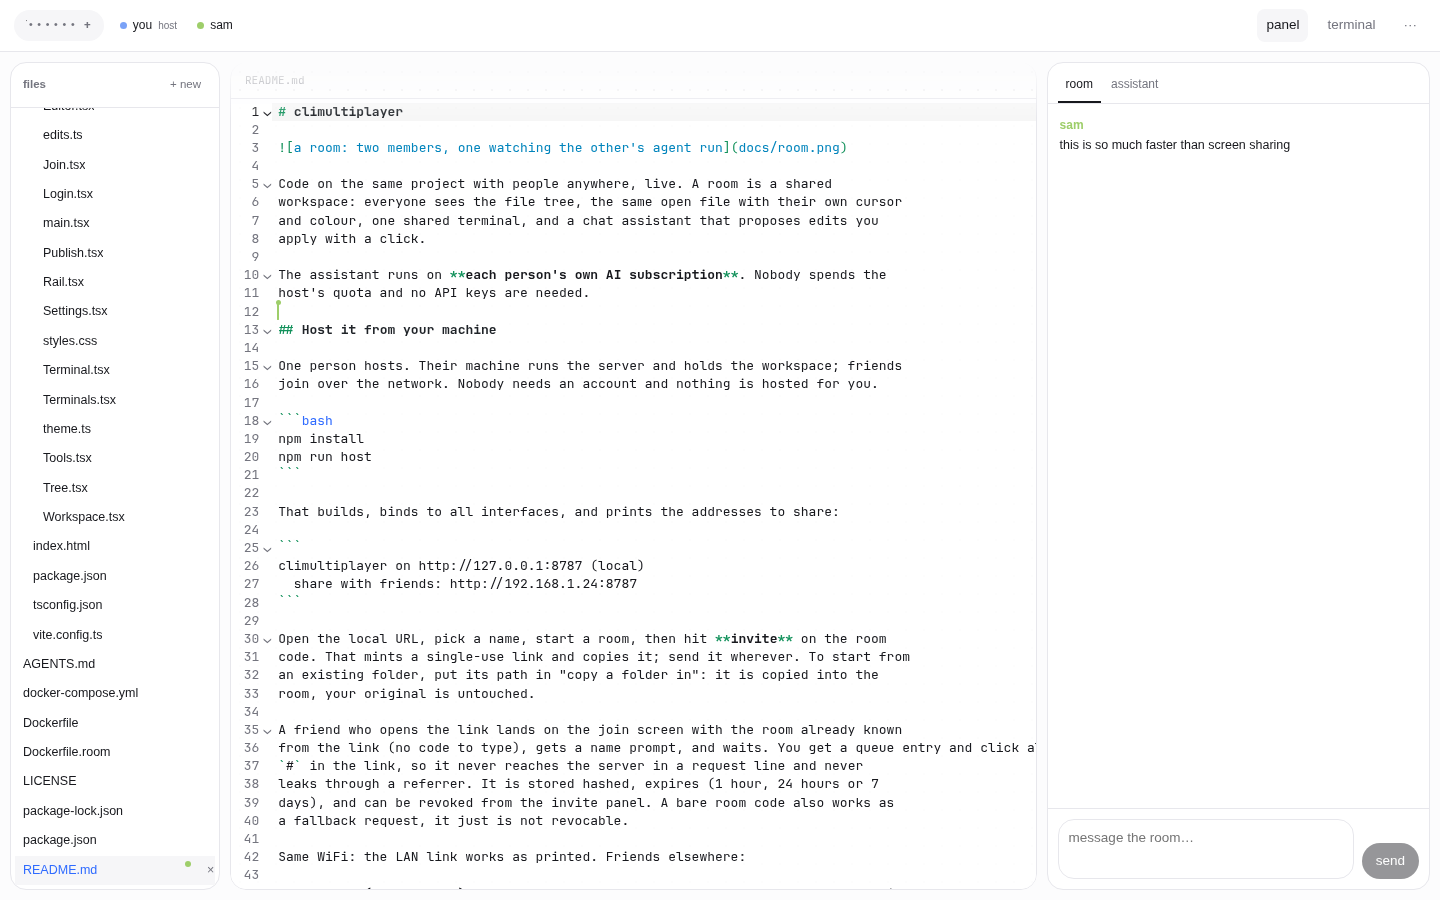
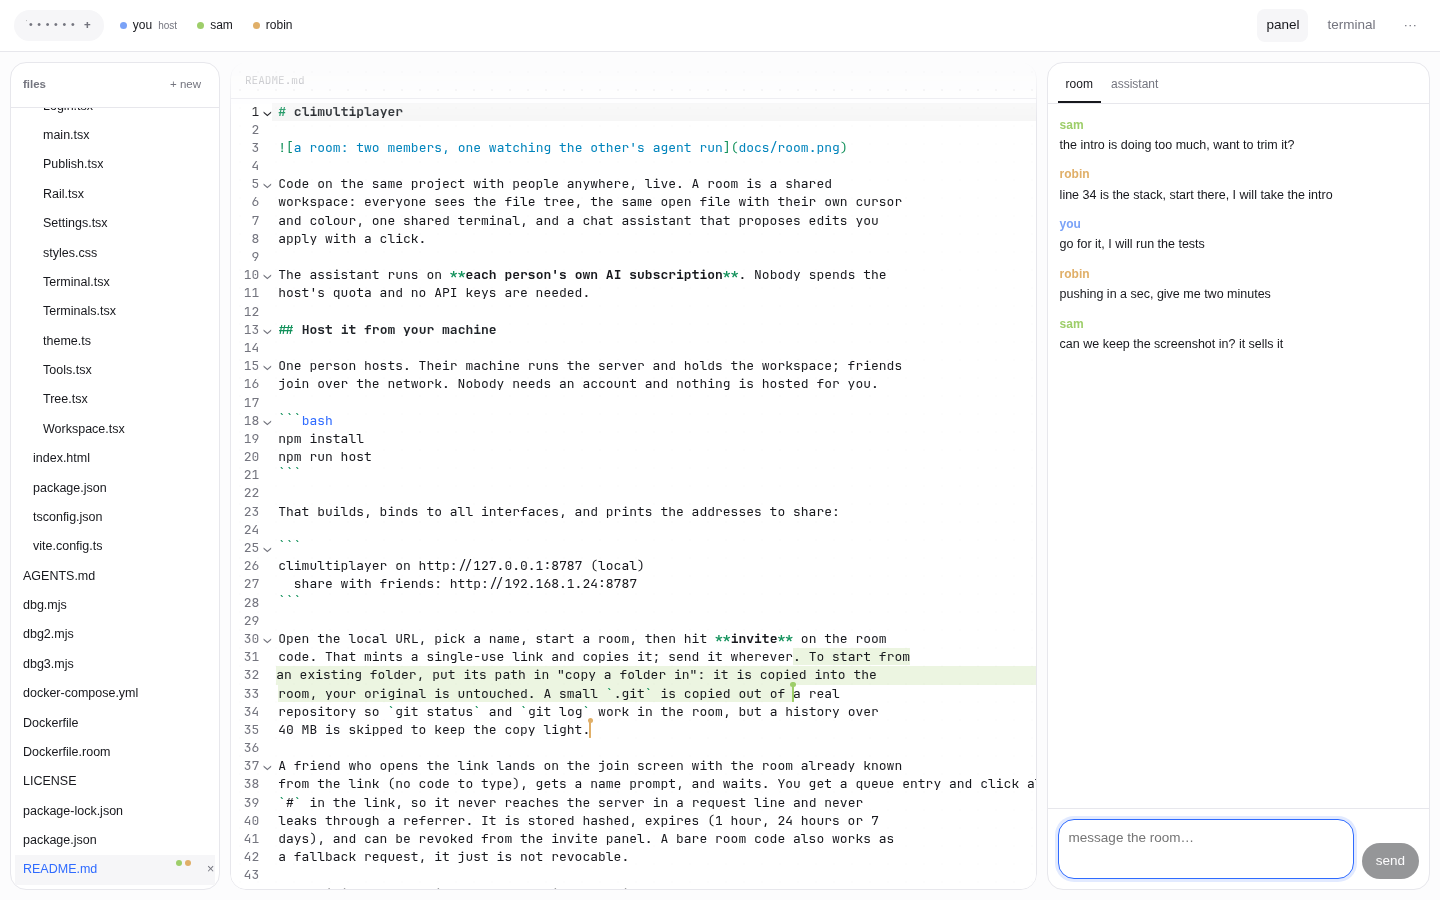
Turn join requests into notification cards, and dress the landing page
Approvals used to be a strip under the header that shoved the layout. They
are now floating cards on the right with the member's colour, the command,
the reasons, and a bar showing the 90 second window, so a request is
impossible to miss and leaves the app alone.

Also adds a pitch row and soft gradient to the landing page, a favicon and
social meta, room codes in the tab title, build tools in the room image so
npm install works, and three people in the screenshots.

diff --git a/web/src/Workspace.tsx b/web/src/Workspace.tsx
@@ -11,8 +11,14 @@ import { Settings, type SettingsTab } from './Settings'
 import { Terminals } from './Terminals'
 import { Tree } from './Tree'
 
-type Pending = { id: string; command: string; memberName: string; reasons: string[] }
+type Pending = { id: string; command: string; memberName: string; memberId: string; reasons: string[] }
 type Waiting = { id: string; name: string; expiresAt: number }
+
+// A command approval dies on its own after 90s, which the card shows as a
+// shrinking bar rather than a sentence nobody reads.
+const APPROVAL_MS = 90_000
+
+const initials = (name: string) => name.trim().slice(0, 2).toUpperCase()
 
 export const Workspace = ({ session, onLeave }: { session: Session; onLeave: (reason?: string) => void }) => {
   const socket = useRef<WebSocket | null>(null)
@@ -33,9 +39,13 @@ export const Workspace = ({ session, onLeave }: { session: Session; onLeave: (re
   const [showChat, setShowChat] = useState(true)
   const [showTerm, setShowTerm] = useState(false)
   const [connected, setConnected] = useState(false)
-  const [toast, setToast] = useState('')
+  const [toast, setToast] = useState<{ text: string; at: number } | null>(null)
   const [following, setFollowing] = useState<string | null>(null)
   const [shell, setShell] = useState('host')
+
+  // A toast is stamped so that repeating the same sentence still restarts the
+  // four second clock instead of leaving the old one on screen.
+  const flash = (text: string) => setToast({ text, at: Date.now() })
 
   const isHost = session.member.role === 'host'
   const canApprove = session.member.role !== 'guest'
@@ -88,7 +98,7 @@ export const Workspace = ({ session, onLeave }: { session: Session; onLeave: (re
       }
       if (message.type === 'term:approval') setPending(current => [...current, message])
       if (message.type === 'term:decision') setPending(current => current.filter(entry => entry.id !== message.id))
-      if (message.type === 'notice') setToast(message.message)
+      if (message.type === 'notice') flash(message.message)
       if (message.type === 'kicked') onLeave('the host removed you from that room')
       for (const handler of handlers.current) handler(message)
     }
@@ -101,9 +111,17 @@ export const Workspace = ({ session, onLeave }: { session: Session; onLeave: (re
 
   useEffect(() => {
     if (!toast) return
-    const timer = setTimeout(() => setToast(''), 4000)
+    const timer = setTimeout(() => setToast(null), 4000)
     return () => clearTimeout(timer)
   }, [toast])
+
+  useEffect(() => {
+    const previous = document.title
+    document.title = `${session.code} · climultiplayer`
+    return () => {
+      document.title = previous
+    }
+  }, [session.code])
 
   const currentRef = useRef<string | null>(null)
   const followingRef = useRef<string | null>(null)
@@ -138,9 +156,9 @@ export const Workspace = ({ session, onLeave }: { session: Session; onLeave: (re
     const message = sameMachine ? `${note}, works on this machine only` : note
     try {
       await navigator.clipboard.writeText(`${base}${path}`)
-      setToast(message)
+      flash(message)
     } catch {
-      setToast(`${base}${path}`)
+      flash(`${base}${path}`)
     }
   }
 
@@ -149,7 +167,7 @@ export const Workspace = ({ session, onLeave }: { session: Session; onLeave: (re
       const invite = await createInvite(session, minutes)
       await copyLink(invite.path, 'single-use invite copied')
     } catch (problem: any) {
-      setToast(problem.message)
+      flash(problem.message)
     }
   }
 
@@ -218,16 +236,16 @@ export const Workspace = ({ session, onLeave }: { session: Session; onLeave: (re
             if (!confirm(`remove ${member.name}?`)) return
             try {
               const result = await kickMember(session, member.id)
-              setToast(`${result.name} removed`)
+              flash(`${result.name} removed`)
             } catch (problem: any) {
-              setToast(problem.message)
+              flash(problem.message)
             }
           }}
           onRole={member => async () => {
             try {
               await setRole(session, member.id, member.role === 'editor' ? 'guest' : 'editor')
             } catch (problem: any) {
-              setToast(problem.message)
+              flash(problem.message)
             }
           }}
           others={members.filter(member => member.id !== session.member.id)}
@@ -237,42 +255,46 @@ export const Workspace = ({ session, onLeave }: { session: Session; onLeave: (re
       </header>
 
       {(waiting.length > 0 || pending.length > 0) && (
-        <div className="approvals">
+        <div className="notices" role="status" aria-live="polite">
           {waiting.map(entry => (
-            <div key={entry.id} className="approval join">
-              <span>
-                <strong>{entry.name}</strong> wants to join
-                <small>the invite is spent only if you allow</small>
-              </span>
+            <article key={entry.id} className="notice join">
+              <header>
+                <i className="notice-avatar" aria-hidden>{initials(entry.name)}</i>
+                <span><strong>{entry.name}</strong> wants to join</span>
+              </header>
+              <p className="notice-note">The invite is spent only if you allow.</p>
               {isHost ? (
-                <>
-                  <button onClick={() => decideJoin(session, entry.id, true)}>allow</button>
-                  <button className="ghost" onClick={() => decideJoin(session, entry.id, false)}>
-                    deny
-                  </button>
-                </>
+                <div className="notice-actions">
+                  <button onClick={() => decideJoin(session, entry.id, true)}>allow {entry.name}</button>
+                  <button className="ghost" onClick={() => decideJoin(session, entry.id, false)}>deny</button>
+                </div>
               ) : (
-                <em>waiting for the host</em>
+                <em className="notice-wait"><b /><b /><b /> waiting for the host</em>
               )}
-            </div>
+            </article>
           ))}
           {pending.map(entry => (
-            <div key={entry.id} className="approval">
-              <span>
-                <strong>{entry.memberName}</strong> wants to run <code>{entry.command}</code>
-                <small>{entry.reasons.join(', ')}</small>
-              </span>
+            <article key={entry.id} className="notice run">
+              <header>
+                <i className="notice-avatar" style={{ background: members.find(member => member.id === entry.memberId)?.color ?? 'var(--dim)' }} aria-hidden>
+                  {initials(entry.memberName)}
+                </i>
+                <span><strong>{entry.memberName}</strong> wants to run</span>
+              </header>
+              <code className="notice-command">{entry.command}</code>
+              <div className="notice-reasons">
+                {entry.reasons.map(reason => <span key={reason}>{reason}</span>)}
+              </div>
               {canApprove ? (
-                <>
+                <div className="notice-actions">
                   <button onClick={() => send({ type: 'approval', id: entry.id, allow: true })}>allow</button>
-                  <button className="ghost" onClick={() => send({ type: 'approval', id: entry.id, allow: false })}>
-                    deny
-                  </button>
-                </>
+                  <button className="ghost" onClick={() => send({ type: 'approval', id: entry.id, allow: false })}>deny</button>
+                </div>
               ) : (
-                <em>waiting for the host</em>
+                <em className="notice-wait"><b /><b /><b /> waiting for the host</em>
               )}
-            </div>
+              <div className="notice-timer" style={{ animationDuration: `${APPROVAL_MS}ms` }} />
+            </article>
           ))}
         </div>
       )}
@@ -317,12 +339,12 @@ export const Workspace = ({ session, onLeave }: { session: Session; onLeave: (re
         )}
       </main>
 
-      {toast && <div className="toast">{toast}</div>}
-      {settings && <Settings session={session} tab={settings} onTab={setSettings} onClose={() => setSettings(null)} onNote={setToast} onChanged={refreshModels} />}
-      {invites && <Invites session={session} onClose={() => setInvites(false)} onCopied={setToast} />}
+      {toast && <div className="toast" key={toast.at}>{toast.text}</div>}
+      {settings && <Settings session={session} tab={settings} onTab={setSettings} onClose={() => setSettings(null)} onNote={flash} onChanged={refreshModels} />}
+      {invites && <Invites session={session} onClose={() => setInvites(false)} onCopied={flash} />}
       {log && <Audit session={session} onClose={() => setLog(false)} />}
 
-      {publish && <Publish session={session} onClose={() => setPublish(false)} onNote={setToast} />}
+      {publish && <Publish session={session} onClose={() => setPublish(false)} onNote={flash} />}
     </div>
   )
 }

diff --git a/web/src/styles.css b/web/src/styles.css
@@ -86,11 +86,16 @@ code, pre { font-family: var(--mono); font-size: 0.92em; }
 .boot { height: 100%; display: grid; place-items: center; color: var(--dim); }
 
 /* landing */
-.join { height: 100%; overflow: auto; display: grid; place-items: center; padding: 32px; }
+.join { position: relative; height: 100%; overflow: auto; display: grid; place-items: center; padding: 32px; }
+.join::before { content: ''; position: absolute; inset: 0; pointer-events: none; background:
+  radial-gradient(48% 42% at 50% 26%, color-mix(in srgb, var(--accent) 13%, transparent), transparent 72%),
+  radial-gradient(38% 34% at 24% 10%, color-mix(in srgb, #a626a4 9%, transparent), transparent 70%); }
 .join-inner { width: min(640px, 100%); }
 .join h1 { font-size: 26px; letter-spacing: -0.02em; margin: 0 0 8px; font-weight: 650; }
 .join h1 span { color: var(--dim); font-weight: 450; }
-.tag { color: var(--dim); margin: 0 0 28px; max-width: 46ch; }
+.tag { color: var(--dim); margin: 0 0 14px; max-width: 46ch; }
+.pitch { display: flex; flex-wrap: wrap; gap: 6px; list-style: none; margin: 0 0 26px; padding: 0; }
+.pitch li { font-size: 11.5px; color: var(--dim); border: 1px solid var(--line); border-radius: 99px; padding: 3px 10px; background: color-mix(in srgb, var(--panel) 70%, transparent); }
 .join label { display: block; font-size: 12.5px; color: var(--dim); margin-bottom: 14px; }
 .join label input { margin-top: 6px; }
 .join-cards { display: grid; gap: 12px; grid-template-columns: 1fr 1fr; margin-bottom: 16px; align-items: stretch; }
@@ -119,7 +124,7 @@ code, pre { font-family: var(--mono); font-size: 0.92em; }
 /* shell */
 .app { height: 100%; display: flex; flex-direction: column; }
 
-.bar { position: relative; z-index: 30; display: flex; align-items: center; gap: 10px; padding: 9px 14px; border-bottom: 1px solid var(--line); background: var(--panel); }
+.bar { position: relative; z-index: 30; display: flex; align-items: center; gap: 10px; padding: 9px 14px; border-bottom: 1px solid var(--line); background: color-mix(in srgb, var(--panel) 78%, transparent); backdrop-filter: blur(14px); }
 .brand { font-size: 14px; font-weight: 600; }
 .brand span { color: var(--dim); font-weight: 450; }
 
@@ -170,12 +175,31 @@ code, pre { font-family: var(--mono); font-size: 0.92em; }
 .menu-row span { flex: 1; overflow: hidden; text-overflow: ellipsis; }
 .menu-row button { padding: 2px 6px; font-size: 11.5px; }
 
-.approvals { display: grid; gap: 8px; padding: 10px 14px; border-bottom: 1px solid var(--line); background: var(--panel-2); }
-.approval { display: flex; align-items: center; gap: 10px; font-size: 12.5px; }
-.approval span { display: grid; }
-.approval small { color: var(--dim); font-size: 11.5px; }
-.approval code { background: var(--panel); border: 1px solid var(--line); padding: 1px 6px; border-radius: 5px; }
-.approval button.ghost { border: 1px solid var(--line); }
+.notices { position: fixed; top: 56px; right: 14px; z-index: 45; display: grid; gap: 8px; width: min(380px, calc(100vw - 28px)); max-height: calc(100vh - 80px); overflow-y: auto; padding-bottom: 4px; }
+.notice { position: relative; overflow: hidden; background: var(--panel); border: 1px solid var(--line); border-radius: 14px; padding: 12px; box-shadow: 0 16px 40px color-mix(in srgb, #000 16%, transparent); animation: notice-in 220ms cubic-bezier(0.2, 0.9, 0.3, 1) both; }
+.notice header { display: flex; align-items: center; gap: 9px; font-size: 12.5px; }
+.notice header span { display: flex; gap: 5px; flex-wrap: wrap; }
+.notice-avatar { display: grid; place-items: center; width: 24px; height: 24px; flex: 0 0 24px; border-radius: 99px; background: var(--accent); color: #fff; font-size: 10px; font-style: normal; font-weight: 600; letter-spacing: 0.02em; }
+.notice.join .notice-avatar { background: var(--good); }
+.notice-note { margin: 7px 0 0; color: var(--dim); font-size: 11.5px; }
+.notice-command { display: block; margin: 9px 0 0; padding: 8px 9px; background: var(--panel-2); border: 1px solid var(--line); border-radius: 8px; font-family: var(--mono); font-size: 11.5px; white-space: pre-wrap; word-break: break-word; max-height: 96px; overflow: auto; }
+.notice-reasons { display: flex; flex-wrap: wrap; gap: 5px; margin-top: 7px; }
+.notice-reasons span { font-size: 10.5px; color: var(--dim); border: 1px solid var(--line); border-radius: 99px; padding: 1px 8px; }
+.notice-actions { display: flex; gap: 6px; margin-top: 10px; }
+.notice-actions button { flex: 1; padding: 7px 10px; font-size: 12px; }
+.notice-actions button.ghost { border: 1px solid var(--line); }
+.notice-actions button:not(.ghost) { background: var(--text); border-color: var(--text); color: var(--bg); font-weight: 550; }
+.notice-wait { display: flex; align-items: center; gap: 3px; margin-top: 10px; color: var(--dim); font-size: 11.5px; }
+.notice-wait b { width: 3px; height: 3px; border-radius: 99px; background: currentColor; animation: notice-dot 1.1s ease-in-out infinite; }
+.notice-wait b:nth-child(2) { animation-delay: 140ms; }
+.notice-wait b:nth-child(3) { animation-delay: 280ms; }
+.notice-timer { position: absolute; left: 0; bottom: 0; height: 2px; width: 100%; background: var(--accent); transform-origin: left; animation: notice-timer linear forwards; }
+@keyframes notice-in { from { opacity: 0; transform: translateX(14px) scale(0.98); } to { opacity: 1; transform: none; } }
+@keyframes notice-timer { from { transform: scaleX(1); } to { transform: scaleX(0); } }
+@keyframes notice-dot { 0%, 100% { opacity: 0.25; } 50% { opacity: 1; } }
+@media (prefers-reduced-motion: reduce) {
+  .notice, .notice-wait b, .notice-timer { animation: none; }
+}
 
 main { flex: 1; min-height: 0; display: grid; gap: 10px; padding: 10px; grid-template-columns: 210px minmax(0, 1fr) minmax(320px, 27%); }
 
@@ -280,7 +304,7 @@ main { flex: 1; min-height: 0; display: grid; gap: 10px; padding: 10px; grid-tem
 
 .install-log { margin: 0; padding: 8px; background: var(--panel-2); border-radius: 7px; font-size: 11.5px; color: var(--dim); max-height: 140px; overflow: auto; white-space: pre-wrap; }
 
-.toast { position: fixed; right: 16px; top: 64px; background: var(--text); color: var(--bg); padding: 7px 14px; border-radius: 99px; font-size: 12px; z-index: 40; max-width: 80vw; overflow: hidden; text-overflow: ellipsis; white-space: nowrap; }
+.toast { position: fixed; left: 50%; top: 12px; transform: translateX(-50%); background: var(--text); color: var(--bg); padding: 7px 14px; border-radius: 99px; font-size: 12px; z-index: 40; max-width: 80vw; overflow: hidden; text-overflow: ellipsis; white-space: nowrap; }
 
 @media (max-width: 1080px) {
   main { grid-template-columns: 170px minmax(0, 1fr) minmax(280px, 34%); }

diff --git a/web/index.html b/web/index.html
@@ -4,8 +4,11 @@
     <meta charset="utf-8" />
     <meta name="viewport" content="width=device-width, initial-scale=1" />
     <title>climultiplayer</title>
-    <meta name="description" content="A live room where friends code together, each driving their own agent, everyone watching." />
+    <meta name="description" content="A live room where friends code together: one shared tree, everyone's own cursor, a guarded shell, and each person's own AI plan." />
+    <meta property="og:title" content="climultiplayer" />
+    <meta property="og:description" content="Code on one live workspace with friends, side by side, in the browser." />
     <meta name="theme-color" content="#08070f" />
+    <link rel="icon" href="/favicon.svg" type="image/svg+xml" />
   </head>
   <body>
     <div id="root"></div>

diff --git a/web/src/Join.tsx b/web/src/Join.tsx
@@ -108,6 +108,12 @@ export const Join = ({ onSession, notice = '' }: { onSession: (session: Session)
             cli<span>multiplayer</span>
           </h1>
           <p className="tag">One workspace, live. Friends in, cursors moving, terminal shared, your own AI plan on call.</p>
+          <ul className="pitch">
+            <li>one shared tree</li>
+            <li>everyone's own cursor</li>
+            <li>a guarded shell</li>
+            <li>your plan, not mine</li>
+          </ul>
         </header>
 
         <label>

diff --git a/README.md b/README.md
@@ -1,6 +1,6 @@
 # climultiplayer
 
-![a room: two members, one watching the other's agent run](docs/room.png)
+![three people in one room: two cursors in the same file, a shared shell, and a chat about the change](docs/room.png)
 
 Code on the same project with people anywhere, live. A room is a shared
 workspace: everyone sees the file tree, the same open file with their own cursor
